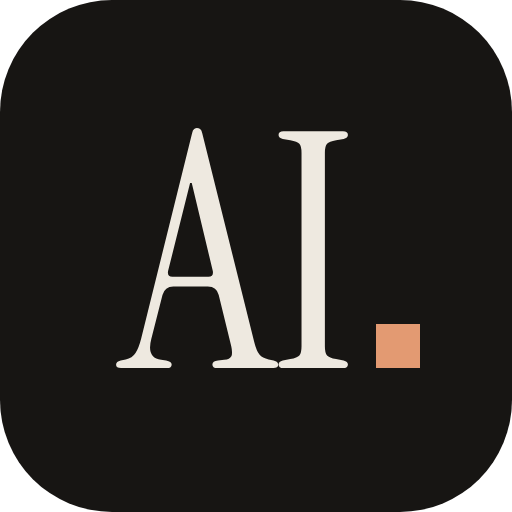
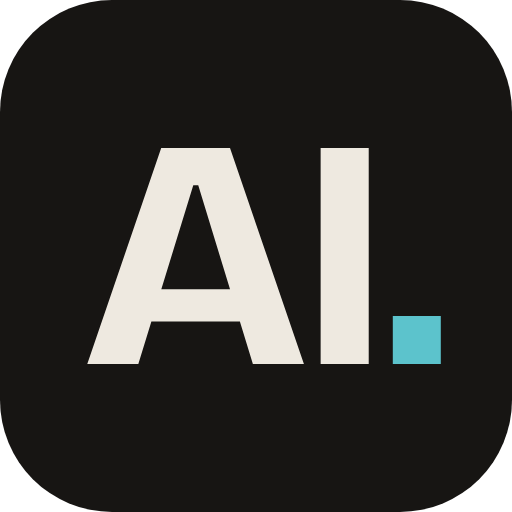
feat(diseño): fase 2 del plan v2, identidad visual
- Titulares en Bricolage Grotesque 600, con eje óptico (opsz) y cargada
  con next/font; reemplaza a Instrument Serif. Bricolage no tiene cursiva
  real, así que la palabra clave se marca solo con color. La escala baja
  porque la grotesca es más ancha: display 88→72 px, h2 60→52 px, y se
  ajustan los h3 fijos de fases, principios, servicios, carrusel y FAQ.
  `font-serif` pasa a `font-titular`.
- Paleta: el fondo deja el crema y pasa a un neutro (#F7F6F3 / arena
  #EEECE6), y el acento pasa de terracota a petróleo: #0B6571 en claro
  (6,2:1) y #5CC3CC sobre noche (8,8:1). La terminal toma el petróleo claro
  para las líneas de IA.
- Favicon, apple-icon e íconos del manifest rehechos: "AI" en Bricolage
  Bold con el cuadrito en petróleo.
- Hero: el enlace secundario pasa de "o por correo" a "Ver ejemplos →",
  que lleva al carrusel (#ejemplos). El correo sigue en el cierre.
- El encabezado del carrusel baja de línea cuando no cabe: a 320 px
  desbordaba 9 px con la nueva tipografía.

Claude-Session: https://claude.ai/code/session_015T6Yw6C2dhesed5vezrwEo

Changed region(s): [[0.1562, 0.25, 0.875, 0.7188]]

diff --git a/frontend/app/globals.css b/frontend/app/globals.css
@@ -1,29 +1,29 @@
 @import "tailwindcss";
 
 /*
- * Sistema visual de AIworks — dirección visual v1 (sep 2026).
+ * Sistema visual de AIworks — v2 (sep 2026).
  *
- * Minimalismo editorial: una columna, bloques autocontenidos, el vacío como material.
- * Neutro cálido sin gradientes y un solo acento (terracota), reservado para la palabra
- * clave en cursiva de cada titular, los enlaces, el foco y el marcador del eyebrow.
- * Nunca como fondo de texto.
+ * Minimalismo editorial con voz de software: una columna, bloques autocontenidos y el
+ * vacío como material. Neutro claro sin gradientes y un solo acento (petróleo),
+ * reservado para la palabra clave de cada titular, los enlaces, el foco y los íconos de
+ * servicio. Nunca como fondo de texto. La única excepción es el verde de WhatsApp en su
+ * botón flotante: es la marca de ese canal.
  *
  * Contraste (WCAG 2.x, calculado sobre estos valores):
- *   tinta / papel 15.9 · tinta-media / papel 6.6 · tinta-media / arena 5.9
- *   marca / papel 5.6 · marca / arena 5.0
+ *   tinta / papel 16.2 · tinta-media / papel 6.6 · tinta-media / arena 6.0
+ *   marca / papel 6.2 · marca / arena 5.7
  *   hueso / noche 15.1 · hueso-medio / noche 6.9 · hueso-tenue / noche 10.2
- *   marca-clara / noche 7.9
- * La terracota normal sobre noche da 2.96:1: en bloques oscuros se usa marca-clara.
+ *   marca-clara / noche 8.8
  */
 :root {
   /* Claros */
-  --papel: #F6F3EE;
-  --arena: #ECE6DC;
+  --papel: #F7F6F3;
+  --arena: #EEECE6;
   --tinta: #1B1916;
-  --tinta-media: #5C554B;
-  --regla: #D8D0C3;
-  --regla-arena: #C9C0B2;
-  --marca: #9C4A22;
+  --tinta-media: #5C5850;
+  --regla: #DDD9D0;
+  --regla-arena: #CFCAC0;
+  --marca: #0B6571;
 
   /* Oscuros: bandas de "Cómo trabajamos" y del cierre */
   --noche: #171513;
@@ -32,7 +32,7 @@
   --hueso-medio: #A69E92;
   --regla-noche: #2E2A25;
   --pista-noche: #3A352F;
-  --marca-clara: #E39A72;
+  --marca-clara: #5CC3CC;
 
   /*
    * Colores "de contexto". Los componentes usan estos, y un bloque oscuro solo tiene que
@@ -75,7 +75,7 @@
   --color-noche: var(--noche);
   --color-hueso: var(--hueso);
   --color-hueso-medio: var(--hueso-medio);
-  --font-serif: var(--fuente-serif), Georgia, serif;
+  --font-titular: var(--fuente-titular), var(--fuente-sans), ui-sans-serif, system-ui, sans-serif;
   --font-sans: var(--fuente-sans), ui-sans-serif, system-ui, sans-serif;
   --font-mono: var(--fuente-mono), ui-monospace, monospace;
 }
@@ -127,39 +127,42 @@ body {
 @layer components {
 /* ---------------------------------------------------------------- Tipografía */
 
-/* Titulares en serif 400; nunca negrita. */
+/* Titulares en Bricolage Grotesque 600, con el tracking cerrado que pide una grotesca
+   en tamaño grande. */
 h1, h2, h3 {
-  font-family: var(--font-serif);
-  font-weight: 400;
+  font-family: var(--font-titular);
+  font-weight: 600;
+  letter-spacing: -0.02em;
   text-wrap: balance;
 }
 
-/* display: 88 / 0.96 en escritorio → 42 / 1.0 a 320–414px */
+/* display: 72 / 1.0 en escritorio → 38 / 1.05 a 320–414px. Bricolage es más ancha que
+   la serif condensada anterior, por eso la escala baja respecto de la v1 (88 / 60). */
 .titular-display {
-  font-size: clamp(2.625rem, 1.2rem + 6vw, 5.5rem);
-  line-height: 1;
-  letter-spacing: -0.015em;
-}
-/* h2: 60 / 1.0 → 36 / 1.05 */
-.titular {
-  font-size: clamp(2.25rem, 1.25rem + 3.6vw, 3.75rem);
+  font-size: clamp(2.375rem, 1.3rem + 4.6vw, 4.5rem);
   line-height: 1.05;
-  letter-spacing: -0.01em;
+  letter-spacing: -0.03em;
 }
-/* h3: 30 / 1.15 → 24 / 1.2 */
+/* h2: 52 / 1.02 → 32 / 1.08 */
+.titular {
+  font-size: clamp(2rem, 1.2rem + 3vw, 3.25rem);
+  line-height: 1.08;
+  letter-spacing: -0.025em;
+}
+/* h3: 26 / 1.2 → 22 / 1.25 */
 .titular-3 {
-  font-size: clamp(1.5rem, 1.2rem + 1vw, 1.875rem);
-  line-height: 1.2;
+  font-size: clamp(1.375rem, 1.15rem + 0.8vw, 1.625rem);
+  line-height: 1.25;
 }
 @media (min-width: 1024px) {
-  .titular-display { line-height: 0.96; }
-  .titular { line-height: 1; }
-  .titular-3 { line-height: 1.15; }
+  .titular-display { line-height: 1; }
+  .titular { line-height: 1.02; }
+  .titular-3 { line-height: 1.2; }
 }
 
-/* La palabra clave: cursiva y acento. Una por titular. */
+/* La palabra clave: el acento. Una por titular. Bricolage no tiene cursiva real, así
+   que se marca solo con color (una cursiva sintética deformaría las letras). */
 .clave {
-  font-style: italic;
   color: var(--c-clave);
 }
 
@@ -399,7 +402,7 @@ section[id] {
     transition-delay: var(--d, 0ms), var(--d, 0ms), 0ms;
   }
   .tarjeta-ejemplo:hover {
-    background-color: #E5DED2;
+    background-color: #E6E3DC;
   }
 
   /* Revelados al hacer scroll: transición desde el estado oculto al entrar data-visible. */

diff --git a/frontend/app/layout.tsx b/frontend/app/layout.tsx
@@ -1,5 +1,5 @@
 import type { Metadata } from "next";
-import { Geist, Geist_Mono, Instrument_Serif } from "next/font/google";
+import { Bricolage_Grotesque, Geist, Geist_Mono } from "next/font/google";
 import { Header } from "@/shared/components/layout/Header";
 import { Footer } from "@/shared/components/layout/Footer";
 import { FloatingWhatsApp } from "@/shared/components/ui/FloatingWhatsApp";
@@ -8,14 +8,15 @@ import { StoreRehydrate } from "@/shared/components/providers/StoreRehydrate";
 import { SITE_URL } from "@/shared/constants/site";
 import "./globals.css";
 
-// Tres voces, una por función: serif para titulares, sans para cuerpo y UI, mono para
-// eyebrows y el registro operativo. next/font las sirve desde el propio dominio (sin
-// petición a Google en el navegador) y reserva su métrica para evitar saltos de layout.
-const serif = Instrument_Serif({
+// Tres voces, una por función: Bricolage Grotesque para titulares, Geist para cuerpo y
+// UI, Geist Mono para eyebrows y el registro operativo. next/font las sirve desde el
+// propio dominio (sin petición a Google en el navegador) y reserva su métrica para evitar
+// saltos de layout. Bricolage es variable: se carga el eje de tamaño óptico (opsz), que
+// abre el espaciado en tamaños chicos y lo cierra en el titular grande.
+const titular = Bricolage_Grotesque({
   subsets: ["latin"],
-  weight: "400",
-  style: ["normal", "italic"],
-  variable: "--fuente-serif",
+  axes: ["opsz"],
+  variable: "--fuente-titular",
   display: "swap",
 });
 const sans = Geist({ subsets: ["latin"], variable: "--fuente-sans", display: "swap" });
@@ -94,7 +95,7 @@ export default function RootLayout({
   children: React.ReactNode;
 }>) {
   return (
-    <html lang="es" suppressHydrationWarning className={`${serif.variable} ${sans.variable} ${mono.variable}`}>
+    <html lang="es" suppressHydrationWarning className={`${titular.variable} ${sans.variable} ${mono.variable}`}>
       <head>
         {/*
           * Marca que hay JavaScript antes del primer pintado. Los revelados al hacer scroll

diff --git a/frontend/features/hero/components/Hero.tsx b/frontend/features/hero/components/Hero.tsx
@@ -2,7 +2,7 @@
 
 import { Container } from '@/shared/components/ui/Container';
 import { useTranslation } from '@/shared/hooks/useTranslation';
-import { CONTACT_INFO } from '@/shared/constants';
+import { ArrowRight } from 'lucide-react';
 import { enlaceWhatsApp, avisoPestanaNueva } from '@/shared/lib/whatsapp';
 import { RegistroOperativo } from './RegistroOperativo';
 
@@ -32,7 +32,7 @@ export function Hero() {
             <span className="linea-mascara entrada-mascara">
               <span className="linea text-tinta-media" style={retardo(100)}>
                 {categoria.antes}
-                <i className="clave">{categoria.clave}</i>
+                <span className="clave">{categoria.clave}</span>
                 {categoria.despues}
               </span>
             </span>
@@ -57,10 +57,14 @@ export function Hero() {
                 {t.hero.cta.primary}
               </a>
               <a
-                href={`mailto:${CONTACT_INFO.email}`}
-                className="enlace self-center p-2 text-base font-medium sm:self-auto sm:p-0 sm:text-[1.0625rem]"
+                href="#ejemplos"
+                className="group inline-flex items-center gap-2 self-center p-2 text-base font-medium text-tinta sm:self-auto sm:p-0 sm:text-[1.0625rem]"
               >
-                {t.hero.cta.correo}
+                <span className="enlace">{t.hero.cta.ejemplos}</span>
+                <ArrowRight
+                  className="size-4 transition-transform duration-200 group-hover:translate-x-1"
+                  aria-hidden="true"
+                />
               </a>
             </div>
 

diff --git a/frontend/features/porque/components/CarruselEjemplos.tsx b/frontend/features/porque/components/CarruselEjemplos.tsx
@@ -78,8 +78,8 @@ export function CarruselEjemplos({ titulo, anterior, siguiente, hoyLabel, conIaL
 
   return (
     <div className="flex flex-col gap-8">
-      <div className="flex items-end justify-between gap-6">
-        <h3 className="text-[1.75rem] leading-[1.1] lg:text-[2.25rem]">{titulo}</h3>
+      <div className="flex flex-wrap items-end justify-between gap-x-6 gap-y-4">
+        <h3 className="text-[1.625rem] leading-[1.1] lg:text-[2rem]">{titulo}</h3>
 
         <div className="flex shrink-0 items-center gap-3">
           <span className="tabular hidden text-sm text-tinta-media sm:inline" aria-live="polite">
@@ -122,7 +122,7 @@ export function CarruselEjemplos({ titulo, anterior, siguiente, hoyLabel, conIaL
               <span>{item.area}</span>
               <span className="tabular">{String(index + 1).padStart(2, '0')}</span>
             </span>
-            <h4 className="font-serif text-[1.625rem] leading-[1.15] lg:text-[1.875rem]">{item.titulo}</h4>
+            <h4 className="font-titular text-[1.375rem] font-semibold leading-[1.2] tracking-[-0.02em] lg:text-[1.5rem]">{item.titulo}</h4>
             <dl className="mt-auto grid grid-cols-1 gap-y-1 text-base leading-normal sm:grid-cols-[72px_minmax(0,1fr)] sm:gap-x-3 sm:gap-y-3">
               <dt className="font-mono text-xs font-medium uppercase leading-[2] text-tinta-media">{hoyLabel}</dt>
               <dd className="mb-3 text-tinta-media sm:mb-0">{item.hoy}</dd>

diff --git a/frontend/features/porque/components/Porque.tsx b/frontend/features/porque/components/Porque.tsx
@@ -30,13 +30,13 @@ export function Porque() {
               className="revelar flex flex-col gap-3 border-t border-tinta pt-5"
               style={{ '--d': `${index * 90}ms` } as Retardo}
             >
-              <h3 className="text-[1.625rem] leading-[1.15] lg:text-[1.875rem]">{item.titulo}</h3>
+              <h3 className="text-[1.375rem] leading-[1.2] lg:text-[1.625rem]">{item.titulo}</h3>
               <p className="text-tinta-media">{item.descripcion}</p>
             </li>
           ))}
         </ul>
 
-        <div {...ejemplos} className="mt-24 lg:mt-32">
+        <div {...ejemplos} id="ejemplos" className="mt-24 scroll-mt-24 lg:mt-32">
           <CarruselEjemplos
             titulo={t.porque.casos.titulo}
             anterior={t.porque.casos.anterior}

diff --git a/frontend/features/preguntas/components/Pregunta.tsx b/frontend/features/preguntas/components/Pregunta.tsx
@@ -38,7 +38,7 @@ export function Pregunta({ indice, pregunta, respuesta, defaultOpen = false }: P
           aria-expanded={open}
           aria-controls={panelId}
           onClick={() => setOpen((prev) => !prev)}
-          className="flex w-full cursor-pointer items-center justify-between gap-6 py-6 text-left font-serif text-[1.5rem] leading-[1.2] text-tinta sm:py-[26px] lg:text-[1.875rem]"
+          className="flex w-full cursor-pointer items-center justify-between gap-6 py-6 text-left font-titular text-[1.25rem] font-medium leading-[1.25] tracking-[-0.015em] text-tinta sm:py-[26px] lg:text-[1.5rem]"
         >
           <span>{pregunta}</span>
           <span aria-hidden="true" className="relative size-4 shrink-0">

diff --git a/frontend/features/proceso/components/Fase.tsx b/frontend/features/proceso/components/Fase.tsx
@@ -14,7 +14,7 @@ export function Fase({ alcanzada, faseLabel, numero, titulo, descripcion, entreg
       <span className="font-mono text-[0.8125rem] font-medium text-hueso-medio">
         {faseLabel} <span className="tabular">{numero}</span>
       </span>
-      <h3 className="text-[1.875rem] leading-[1.1] lg:text-[2.375rem] lg:leading-[1.05]">{titulo}</h3>
+      <h3 className="text-[1.5rem] leading-[1.15] lg:text-[1.875rem] lg:leading-[1.05]">{titulo}</h3>
       <p className="text-[var(--hueso-tenue)]">{descripcion}</p>
       <p className="mt-1 flex flex-col gap-1 text-base text-hueso-medio">
         <span className="font-mono text-[0.8125rem] uppercase tracking-[0.12em]">{entregableLabel}</span>

diff --git a/frontend/features/servicios/components/Servicios.tsx b/frontend/features/servicios/components/Servicios.tsx
@@ -52,7 +52,7 @@ export function Servicios() {
                     {String(index + 1).padStart(2, '0')}
                   </span>
                 </div>
-                <h3 className="text-[1.75rem] leading-[1.1] lg:text-[2.125rem]">{item.titulo}</h3>
+                <h3 className="text-[1.5rem] leading-[1.15] lg:text-[1.875rem]">{item.titulo}</h3>
                 <p className="text-tinta-media">{item.descripcion}</p>
                 <p className="border-l-2 border-marca pl-4 text-[0.9375rem] lg:text-base">
                   <span className="font-medium">{t.servicios.ejemploLabel}: </span>

diff --git a/frontend/features/cta-final/components/CTAFinal.tsx b/frontend/features/cta-final/components/CTAFinal.tsx
@@ -34,7 +34,7 @@ export function CTAFinal() {
             </span>
           </p>
 
-          <h2 className="max-w-[14ch] text-[clamp(2.625rem,1.4rem+5vw,5rem)] leading-[0.98] tracking-[-0.015em]">
+          <h2 className="max-w-[16ch] text-[clamp(2.25rem,1.3rem+3.8vw,4rem)] leading-[1.02] tracking-[-0.03em]">
             <span className="linea-mascara revelar-mascara">
               <span className="linea" style={retardo(400)}>
                 {t.cta.titulo.antes}

diff --git a/frontend/shared/components/layout/Header.tsx b/frontend/shared/components/layout/Header.tsx
@@ -103,7 +103,7 @@ export function Header() {
                       e.preventDefault();
                       handleNavClick(link.href);
                     }}
-                    className="block py-3 font-serif text-2xl text-tinta"
+                    className="block py-3 font-titular text-2xl font-semibold tracking-[-0.02em] text-tinta"
                   >
                     {link.label}
                   </a>

diff --git a/frontend/features/procesos/components/ProcesoFila.tsx b/frontend/features/procesos/components/ProcesoFila.tsx
@@ -35,7 +35,7 @@ export function ProcesoFila({ indice, numero, titulo, hoy, resuelve, ctaLabel, l
         {numero}
       </span>
 
-      <h3 className="revelar titular-3 md:text-[2rem] md:leading-[1.1]" style={{ '--d': `${retardo + 100}ms` } as React.CSSProperties}>
+      <h3 className="revelar titular-3" style={{ '--d': `${retardo + 100}ms` } as React.CSSProperties}>
         {titulo}
       </h3>
 

diff --git a/frontend/app/manifest.ts b/frontend/app/manifest.ts
@@ -9,8 +9,8 @@ export default function manifest(): MetadataRoute.Manifest {
     description: 'Transformamos tus datos en decisiones automatizadas con IA',
     start_url: '/',
     display: 'standalone',
-    background_color: '#F6F3EE',
-    theme_color: '#F6F3EE',
+    background_color: '#F7F6F3',
+    theme_color: '#F7F6F3',
     icons: [
       {
         src: '/icon-192.png',
